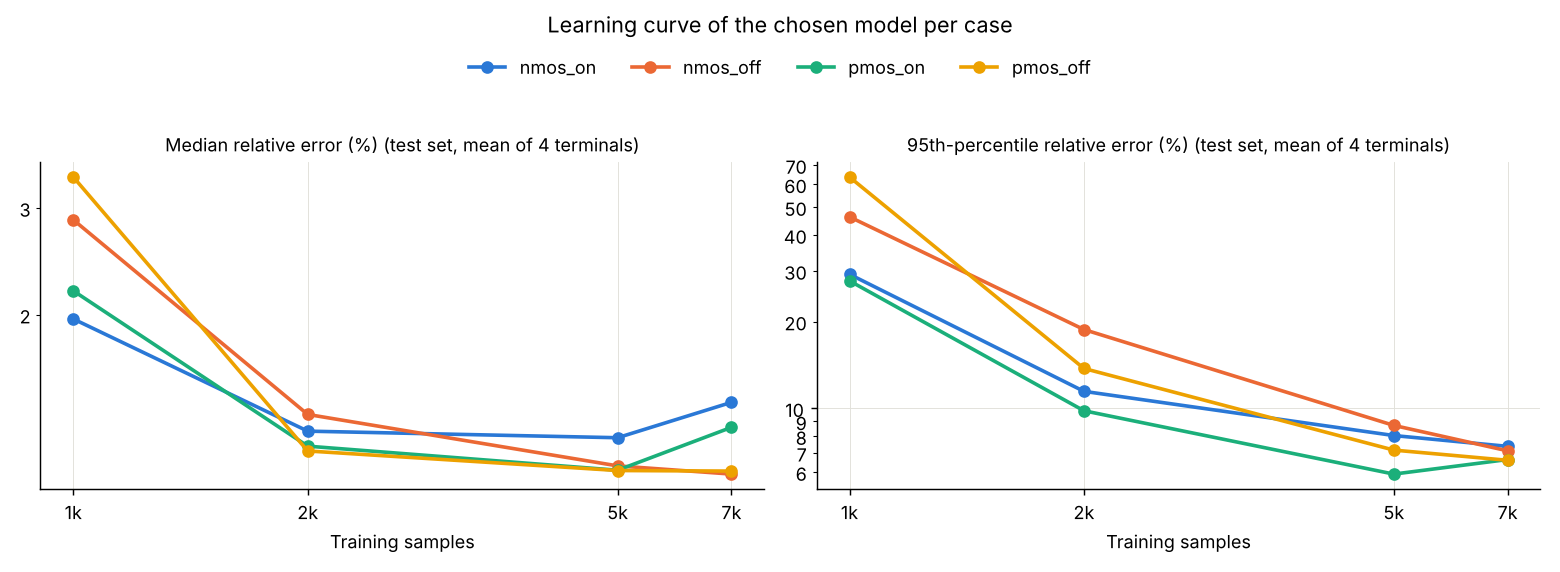
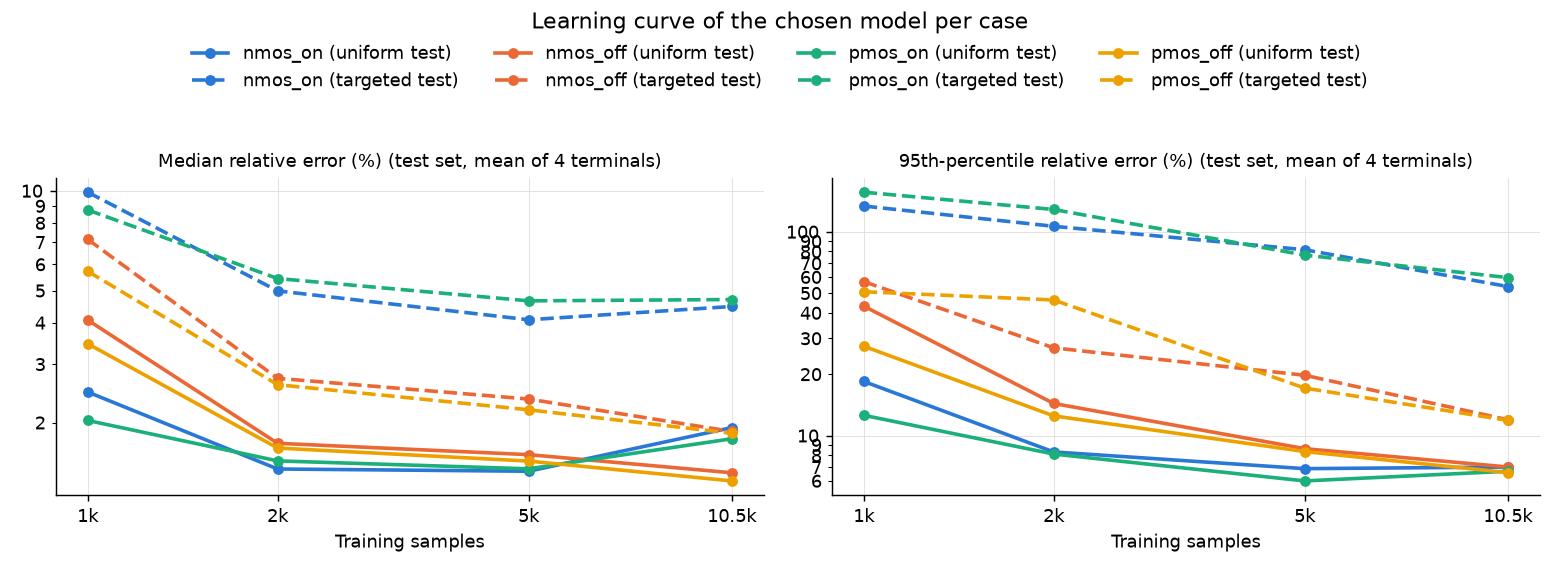
feat: rerun the learning curve on uniform + targeted data
Uses the same data and splits as train_compare.py, goes up to the full
10.5k-row training split and scores each size on both test sets, so the
curve matches the retrained models.

diff --git a/part2_models/learning_curve.py b/part2_models/learning_curve.py
@@ -1,7 +1,9 @@
 """Part 2: learning curve of the chosen model per case -> results/part2/learning_curve.*
 
 Retrains each case's chosen family (from test_metrics.csv) on nested random subsets of
-the training split and scores every fit on the same, untouched test split. The
+the training split and scores every fit on the same, untouched test splits. Data and split
+are those of train_compare.py: uniform + targeted rows, each dataset split 70/15/15 with the
+same seed, so the largest size is the full training split of the saved models. The
 validation split stays whole, since it drives early stopping and the grid choice.
 
 Usage:  python part2_models/learning_curve.py      (run train_compare.py first)
@@ -15,7 +17,8 @@ import numpy as np
 import pandas as pd
 
 sys.path.insert(0, str(Path(__file__).resolve().parent))
-from train_compare import CASES, GRIDS, OUT_DIR, SEED, TARGETS, metrics, split_idx, train_family  # noqa: E402
+from train_compare import (CASES, DATASETS, GRIDS, OUT_DIR, SEED, TARGETS, metrics,  # noqa: E402
+                           split_idx, train_family)
 from leakage_model import make_features, to_log  # noqa: E402
 import config  # noqa: E402  (path added by train_compare)
 
@@ -24,19 +27,37 @@ import matplotlib.pyplot as plt  # noqa: E402
 import matplotlib.ticker  # noqa: E402
 
 warnings.filterwarnings("ignore")
-SIZES = [1000, 2000, 5000, 7000]
+SIZES = [1000, 2000, 5000]  # plus the full training split (10,500 rows per case)
 COLORS = dict(zip(CASES, ["#2a78d6", "#eb6834", "#1baf7a", "#eda100"]))
+LINESTYLES = {"uniform": "-", "targeted": "--"}
+
+
+def load_case(case):
+    """All rows of one case plus train / val / per-dataset test indices, as in train_compare.py."""
+    parts, tr, va, tests, offset = [], [], [], {}, 0
+    for set_name, pattern in DATASETS.items():
+        d = pd.read_csv(config.DATA_DIR / pattern.format(case=case))
+        s_tr, s_va, s_te = split_idx(len(d))
+        tr.append(s_tr + offset)
+        va.append(s_va + offset)
+        tests[set_name] = s_te + offset
+        parts.append(d)
+        offset += len(d)
+    return pd.concat(parts, ignore_index=True), np.concatenate(tr), np.concatenate(va), tests
 
 
 def plot(lc):
+    sizes = sorted(lc.n_train.unique())
     fig, axes = plt.subplots(1, 2, figsize=(12, 4.4))
     for ax, col, lab in zip(axes, ["median_err_pct", "p95_err_pct"],
                             ["Median relative error (%)", "95th-percentile relative error (%)"]):
         for case in CASES:
-            s = lc[lc.case == case]
-            ax.plot(s.n_train, s[col], marker="o", ms=6, lw=2, color=COLORS[case], label=case)
+            for set_name, ls in LINESTYLES.items():
+                s = lc[(lc.case == case) & (lc.test_set == set_name)]
+                ax.plot(s.n_train, s[col], marker="o", ms=5, lw=2, ls=ls, color=COLORS[case],
+                        label=f"{case} ({set_name} test)")
         ax.set_xscale("log"), ax.set_yscale("log")
-        ax.set_xticks(SIZES, [f"{n // 1000}k" for n in SIZES])
+        ax.set_xticks(sizes, [f"{n / 1000:g}k" for n in sizes])
         ax.xaxis.set_minor_locator(matplotlib.ticker.NullLocator())
         ax.yaxis.set_major_formatter(matplotlib.ticker.FuncFormatter(lambda v, _: f"{v:g}"))
         ax.yaxis.set_minor_formatter(matplotlib.ticker.FuncFormatter(lambda v, _: f"{v:g}"))
@@ -46,9 +67,9 @@ def plot(lc):
         for sp in ("top", "right"):
             ax.spines[sp].set_visible(False)
     handles, labels = axes[0].get_legend_handles_labels()
-    fig.legend(handles, labels, loc="upper center", ncol=len(labels), frameon=False, bbox_to_anchor=(0.5, 0.93))
+    fig.legend(handles, labels, loc="upper center", ncol=4, frameon=False, bbox_to_anchor=(0.5, 0.95))
     fig.suptitle("Learning curve of the chosen model per case", fontsize=12)
-    fig.tight_layout(rect=(0, 0, 1, 0.88))
+    fig.tight_layout(rect=(0, 0, 1, 0.84))
     fig.savefig(OUT_DIR / "plots" / "learning_curve.png", dpi=130)
     plt.close(fig)
 
@@ -58,25 +79,25 @@ def main():
     rows = []
     for case in CASES:
         fam = chosen[case]
-        df = pd.read_csv(config.DATA_DIR / f"{case}.csv")
-        tr, va, te = split_idx(len(df))
+        df, tr, va, tests = load_case(case)
         X = make_features(df)
         X = X.loc[:, X.iloc[tr].nunique() > 1]
         Y = df[TARGETS].apply(to_log)
         order = np.random.default_rng(SEED).permutation(tr)  # nested subsets: 1k within 2k within ...
-        for n in SIZES:
+        for n in SIZES + [len(tr)]:
             sub = order[:n]
             cm, _ = train_family(fam, GRIDS[fam], X.iloc[sub], Y.iloc[sub], X.iloc[va], Y.iloc[va],
                                  df[TARGETS].iloc[sub])
-            pred = cm.predict(df.iloc[te])
-            ms = [metrics(df[t].iloc[te].values, pred[t].values) for t in TARGETS]
-            row = {"case": case, "family": fam, "n_train": n,
-                   "median_err_pct": np.mean([m["median_err_pct"] for m in ms]),
-                   "p95_err_pct": np.mean([m["p95_err_pct"] for m in ms]),
-                   "mean_err_pct": np.mean([m["mean_err_pct"] for m in ms])}
-            rows.append(row)
-            print(f"{case:9s} {fam:14s} n={n:5d}  median {row['median_err_pct']:.3f}%  p95 {row['p95_err_pct']:.2f}%",
-                  flush=True)
+            for set_name, te in tests.items():
+                pred = cm.predict(df.iloc[te])
+                ms = [metrics(df[t].iloc[te].values, pred[t].values) for t in TARGETS]
+                row = {"case": case, "test_set": set_name, "family": fam, "n_train": n,
+                       "median_err_pct": np.mean([m["median_err_pct"] for m in ms]),
+                       "p95_err_pct": np.mean([m["p95_err_pct"] for m in ms]),
+                       "mean_err_pct": np.mean([m["mean_err_pct"] for m in ms])}
+                rows.append(row)
+                print(f"{case:9s} {fam:14s} n={n:5d} {set_name:8s} test  median {row['median_err_pct']:.3f}%"
+                      f"  p95 {row['p95_err_pct']:.2f}%", flush=True)
 
     lc = pd.DataFrame(rows)
     lc.to_csv(OUT_DIR / "learning_curve.csv", index=False)
